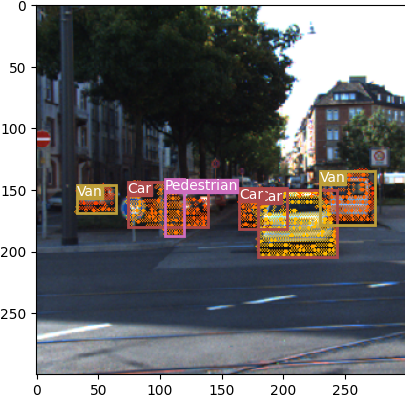
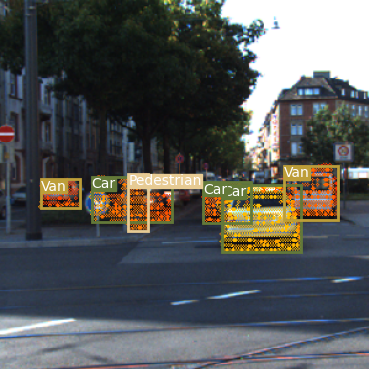
Added sensor fusion to object detection port folio project

diff --git a/index.html b/index.html
@@ -143,10 +143,10 @@
                 </div>
                 <script type="text/javascript">
                   function semantic3d_start() {
-                    document.getElementById('Car_detection_YOLOv3').style.opacity = "1";
+                    document.getElementById('YOLOV3_SSD_fusion').style.opacity = "1";
                   }
                   function semantic3d_stop() {
-                    document.getElementById('Car_detection_YOLOv3').style.opacity = "0";
+                    document.getElementById('YOLOV3_SSD').style.opacity = "0";
                   }
                   semantic3d_stop()
                 </script>
